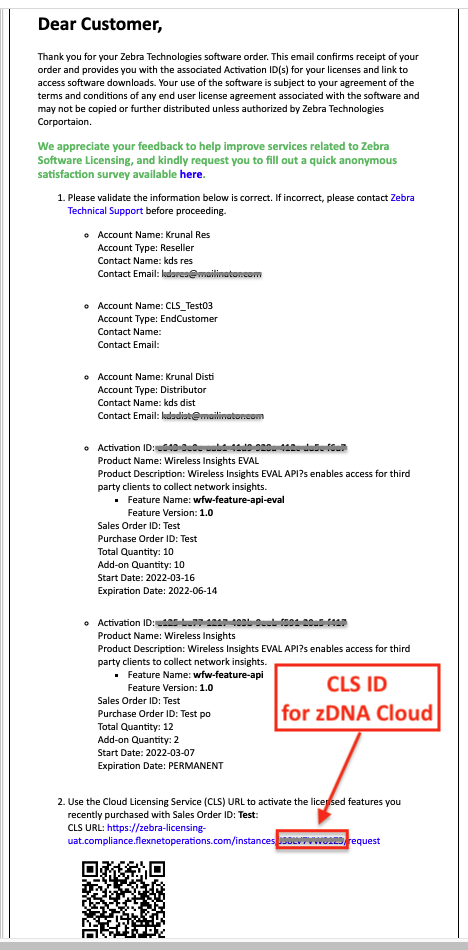
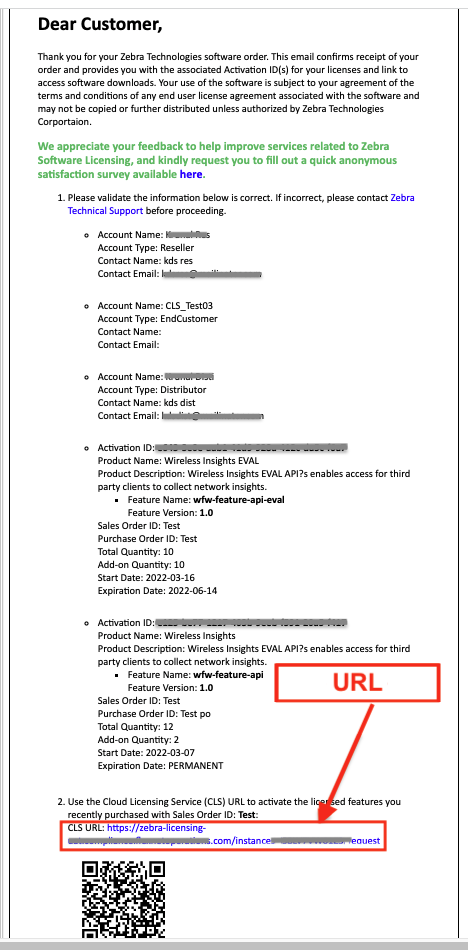
[TUT-89774] IDGuardian 1.0 - Licensing

diff --git a/identityguardian/1-0/licensing/index.html b/identityguardian/1-0/licensing/index.html
@@ -237,7 +237,7 @@
 
                                         <p></p><h2 id="overview" class="anchor"><a class="heading-anchor" href="#overview"><span></span></a>Overview</h2>
 
-<p>This section covers the acquisition, application and management of Identity Guardian licenses acquired from Zebra or through a Zebra reseller.</p>
+<p>This section covers the acquisition and application of Identity Guardian licenses acquired from Zebra or through a Zebra reseller.</p>
 
 <p>Available License Types:</p>
 
@@ -256,19 +256,9 @@
 </li>
 </ul>
 
-<p>These <strong>licenses can be activated using Activation IDs or</strong> one of the following <strong>Feature Names</strong>: </p>
-
-<ul>
-<li><code>idguardian-feature-android-eval</code> (Trial licenses)</li>
-
-<li><code>idguardian-feature-std</code> (Term-based licenses)</li>
-</ul>
-
-<blockquote>
-  <p><strong>Not yet ready to buy</strong>? <a href="#evaluationlicense">Request an evaluation license</a>. </p>
-</blockquote>
-
 <!-- 
+> **Not yet ready to buy**? [Request an evaluation license](#evaluationlicense). 
+
 ### Licensing Behavior
 * After licenses are acquired, **all license allocations are managed in the ZDNA system**. 
 * **Devices not connected at the time a license action is executed** are updated the next time they come online. 
@@ -295,7 +285,7 @@
 
 <p>Zebra licenses are obtained through Zebra resellers or (in some cases) directly from Zebra. </p>
 
-<h4 id="tobeginselectanoption" class="anchor"><a class="heading-anchor" href="#tobeginselectanoption"><span></span></a>To begin, select an option:</h4>
+<p>To begin, select an option: </p>
 
 <ul>
 <li><strong><a href="https://www.zebra.com/us/en/partners/find-a-zebra-partner.html">Find a Zebra Partner</a> -</strong> form for submitting an inquiry via the web</li>
@@ -311,20 +301,20 @@
 
 <hr>
 
-<h2 id="iilocateclsid" class="anchor"><a class="heading-anchor" href="#iilocateclsid"><span></span></a>II. Locate CLS ID</h2>
+<h2 id="iilocateurl" class="anchor"><a class="heading-anchor" href="#iilocateurl"><span></span></a>II. Locate URL</h2>
 
-<p>After licensing ZDNA (through one of the contacts above), a confirmation email is sent with the <strong>Cloud Licensing Server identification (CLS ID)</strong> embedded within a URL (see image, below). </p>
+<p>After licensing Identity Guardian (through one of the contacts above), a confirmation email is sent with the <strong>Cloud Licensing Server URL.</strong> This is required to activate the license.</p>
 
 <p><img alt="image" style="height:450px" src="cls-id-letter.png">
 <br></p>
 
-<p>For more information, please contact your company administrator, Zebra/reseller contact or other authority. </p>
+<!-- For more information, please contact your company administrator, Zebra/reseller contact or other authority.  -->
 
 <hr>
 
 <h2 id="iiiactivatelicense" class="anchor"><a class="heading-anchor" href="#iiiactivatelicense"><span></span></a>III. Activate License</h2>
 
-<p>Licenses can be activated either manually or via mass deployment.</p>
+<p>Licenses can be activated either manually or via mass deployment. Use the following <strong>Feature Name</strong> for activation: <code>idguardian-feature-std</code> </p>
 
 <h3 id="manual" class="anchor"><a class="heading-anchor" href="#manual"><span></span></a>Manual</h3>
 
@@ -347,7 +337,7 @@
 
 <li><strong>Enter Partition Name:</strong> [CLS ID??]</li>
 
-<li><strong>Select License Source:</strong> [opens Select License Source screen, see next step] 
+<li><strong>Select License Source:</strong> [Opens Select License Source screen, see next step] 
 <img alt="" style="height:350px" src="activate-license.png"></li></ul>
 </li>
 
@@ -357,9 +347,9 @@
 <ul>
 <li><strong>Select License Source:</strong> Cloud/Local Server</li>
 
-<li><strong>Enter URL:</strong> [copy/paste the URL supplied by Zebra]</li>
+<li><strong>Enter URL:</strong> [Copy/paste the URL supplied by Zebra in the confirmation email]</li>
 
-<li><strong>Name:</strong> [enter a name for the license source]
+<li><strong>Name:</strong> [Enter a name for the license source]
 <img alt="" style="height:300px" src="license-source-filled.png"></li></ul>
 </li>
 
@@ -369,6 +359,8 @@
 <li>The license is displayed in the main screen.
 <img alt="" style="height:375px" src="activated-license.jpg"></li>
 </ol>
+
+<p><br></p>
 
 <h3 id="massdeployment" class="anchor"><a class="heading-anchor" href="#massdeployment"><span></span></a>Mass Deployment</h3>
 
@@ -381,11 +373,11 @@
 
 <li><p>Select <strong>Create new Profile</strong> from the left-hand pane. </p></li>
 
-<li><p>Select the MX version to match the device, click "Xpert Mode" and click the "Create" button.
+<li><p>Select the MX version to match the <a href="/mx/mx-version-on-device/">device</a>, click <strong>Xpert Mode</strong> and click <strong>Create.</strong> 
 <img alt="" style="height:450px" src="stagenow-1.jpg"></p></li>
 
 <li><p>Enter a profile name and click <strong>Start.</strong>
-<img alt="" style="height:350px" src="stagenow-2.jpg"></p></li>
+<img alt="" style="height:250px" src="stagenow-2.jpg"></p></li>
 
 <li><p>Scroll down and click <strong>LicenseMgr.</strong> LicenseMgr is added to the right side. Click <strong>Add.</strong>
 <img alt="" style="height:450px" src="stagenow-3.jpg"></p></li>
@@ -399,9 +391,9 @@
 
 <li><strong>Feature Name:</strong> idguardian-feature-std</li>
 
-<li><strong>License Source URL:</strong> [enter the URL provided by Zebra]</li>
+<li><strong>License Source URL:</strong> [Enter the URL provided by Zebra]</li>
 
-<li><strong>License Source Friendly Name:</strong> [enter a name identifier]
+<li><strong>License Source Friendly Name:</strong> [Enter a name identifier]
 <img alt="" style="height:450px" src="stagenow-4.jpg"></li></ul></li>
 
 <li><p>Click <strong>Complete Profile.</strong> The StageNow profile creation is complete.
@@ -413,7 +405,7 @@
 <ul>
 <li><strong>StageNow:</strong> Generate the barcode from the StageNow profile. Open StageNow client on the device and scan the barcode(s) generated.</li>
 
-<li><strong>EMM:</strong> Export XML from the StageNow profile. <em>Do not edit the XML file</em> - it can cause unexpected behavior. Deploy the XML using either <a href="/oemconfig">OEMConfig</a> or <a href="/mx">MX</a> to deploy the license.</li>
+<li><strong>EMM:</strong> Export XML from the StageNow profile. <em>Do not edit the XML file</em> - it can cause unexpected behavior. Deploy the XML using either <a href="/oemconfig">OEMConfig</a> or <a href="/mx">MX</a>.</li>
 </ul>
 
 <!-- 
